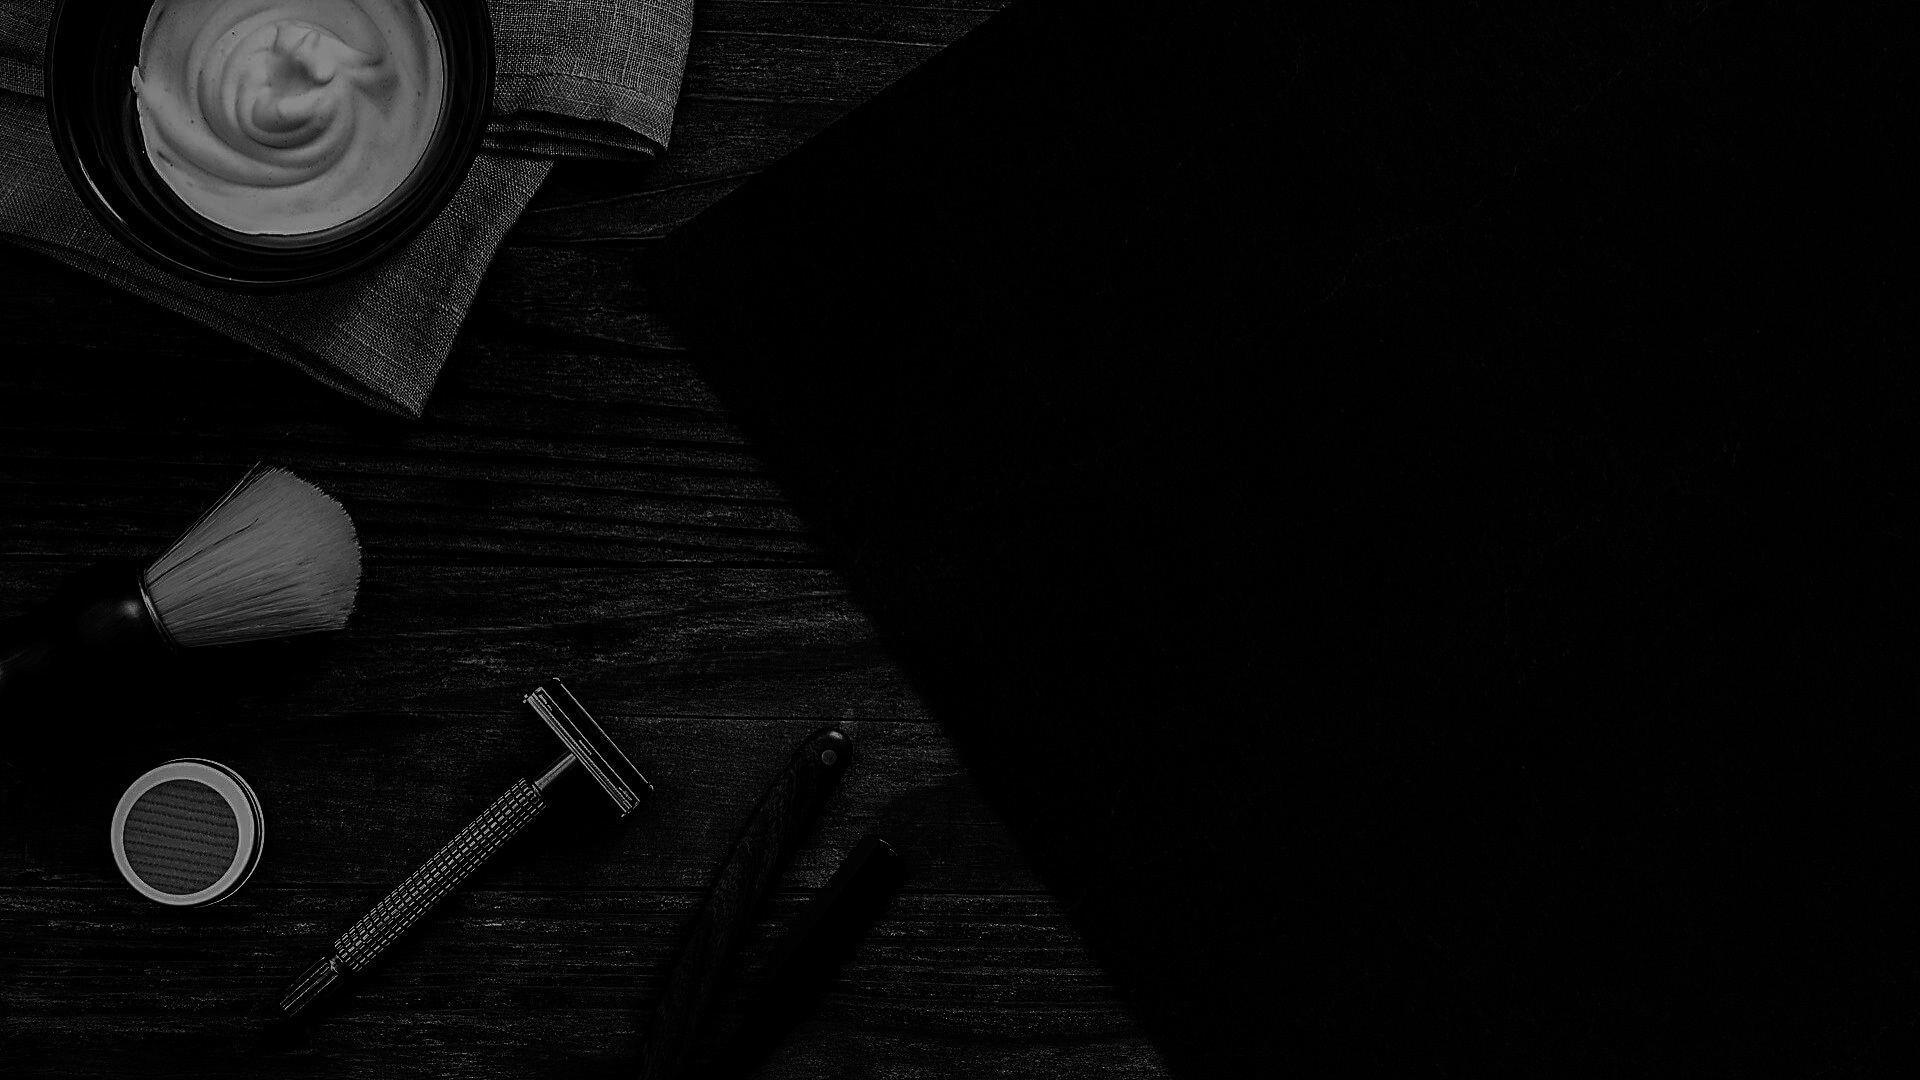
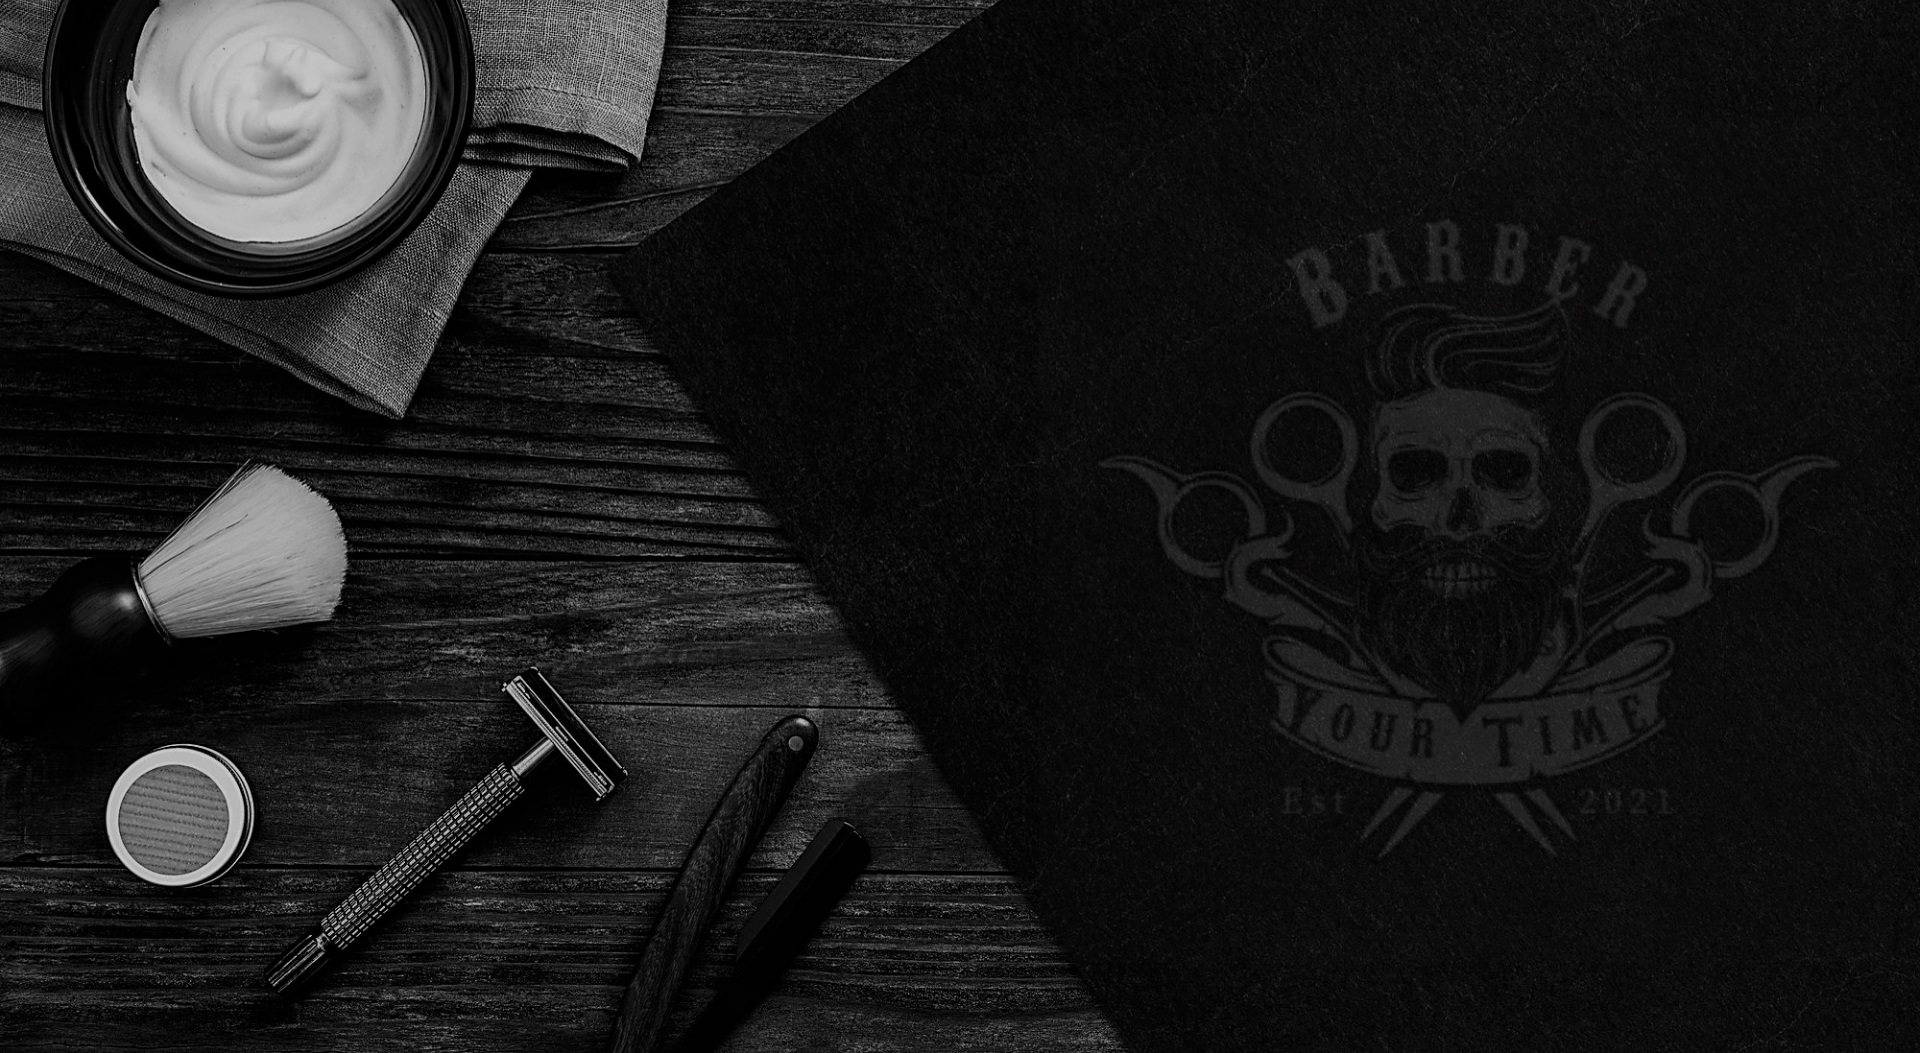
main page bg fix

diff --git a/src/components/GalleryPage/LightBox/LightBox.js b/src/components/GalleryPage/LightBox/LightBox.js
@@ -1,17 +1,29 @@
 import React, { useState } from "react";
 import classes from "./LightBox.module.css";
 import { FontAwesomeIcon } from "@fortawesome/react-fontawesome";
-import { faRectangleXmark } from "@fortawesome/free-solid-svg-icons";
+import { faXmark } from "@fortawesome/free-solid-svg-icons";
 const LightBox = ({ children, src, alt, Wrapper = "div", zIndex = 100 }) => {
   const [isOpen, setIsOpen] = useState(false);
 
   const toggleIsOpen = (e) => {
-    setIsOpen(!isOpen);
-  };
-  const closeModal = (e) => {
     console.log(e.target);
+    if (e.target.localName === "img") {
+      setIsOpen(true);
+    } else {
+      setIsOpen(false);
+    }
+  };
+
+  const openImage = (e) => {
+    if (e.target.localName === "img") {
+      setIsOpen(true);
+    }
+  };
+
+  const closeModal = (e) => {
     setIsOpen(false);
   };
+
   return (
     <Wrapper onClick={toggleIsOpen}>
       {children}
@@ -40,11 +52,12 @@ const LightBox = ({ children, src, alt, Wrapper = "div", zIndex = 100 }) => {
                 display: "block",
               }}
             />
-            <FontAwesomeIcon
-              onClick={closeModal}
-              className={classes["close-icon"]}
-              icon={faRectangleXmark}
-            />
+            <div className={classes["close-btn-wrap"]}>
+              <FontAwesomeIcon
+                className={classes["close-btn"]}
+                icon={faXmark}
+              />
+            </div>
           </div>
         </div>
       ) : null}

diff --git a/src/components/GalleryPage/LightBox/LightBox.module.css b/src/components/GalleryPage/LightBox/LightBox.module.css
@@ -17,20 +17,38 @@
   max-width: 80vw;
 }
 
-.close-icon {
-  display: block;
+.close-btn-wrap {
+  display: inline-block;
+  background-color: rgb(148, 41, 41);
+  width: 52px;
+  height: 52px;
+  border-radius: 50%;
+  display: flex;
+  justify-content: center;
+  align-items: center;
   position: absolute;
+  top: 0;
   right: 0;
-  bottom: 0;
-transform: translateY(100%);
-  font-size: 60px;
-  color: #96271f;
-  background-position: center;
-  background-size: 50%;
+  transform: translate(50%, -50%) rotate(0);
+  transition: 0.4s;
 }
 
-@media(max-width: 600px) {
-    .close-icon {
-        font-size: 40px;
-    }
+.close-btn-wrap:hover {
+  transform: translate(50%, -50%) rotate(90deg);
+}
+
+.close-btn {
+  display: block;
+  font-size: 44px;
+  color: rgb(255, 255, 255);
+}
+
+@media (max-width: 520px) {
+  .close-btn-wrap {
+    width: 40px;
+    height: 40px;
+  }
+  .close-btn {
+    font-size: 30px;
+  }
 }

diff --git a/src/components/MainPage/BookingPanel/BookingPanel.module.css b/src/components/MainPage/BookingPanel/BookingPanel.module.css
@@ -1,7 +1,6 @@
 .box {
   position: relative;
-  margin: 0 auto;
-  margin-top: 25px;
+  margin: 25px auto;
   background-color: rgba(0, 0, 0, 0);
   width: 100%;
   max-width: 670px;
@@ -82,7 +81,7 @@
 
 @media (max-width: 600px) {
   .box {
-
+    margin-top: 20px;
     max-width: 90vw;
 
   }

diff --git a/src/components/MainPage/MainPage.module.css b/src/components/MainPage/MainPage.module.css
@@ -1,7 +1,9 @@
 .main-page {
     min-height: 100vh;
-    /* max-height: 100vh; */
     background-image: url('../../assets/main-page-bg.jpg');
     background-size: cover;
+    background-position: center;
     border-bottom: 3px solid #9b8808;
+    background-repeat: no-repeat;
 }
+
